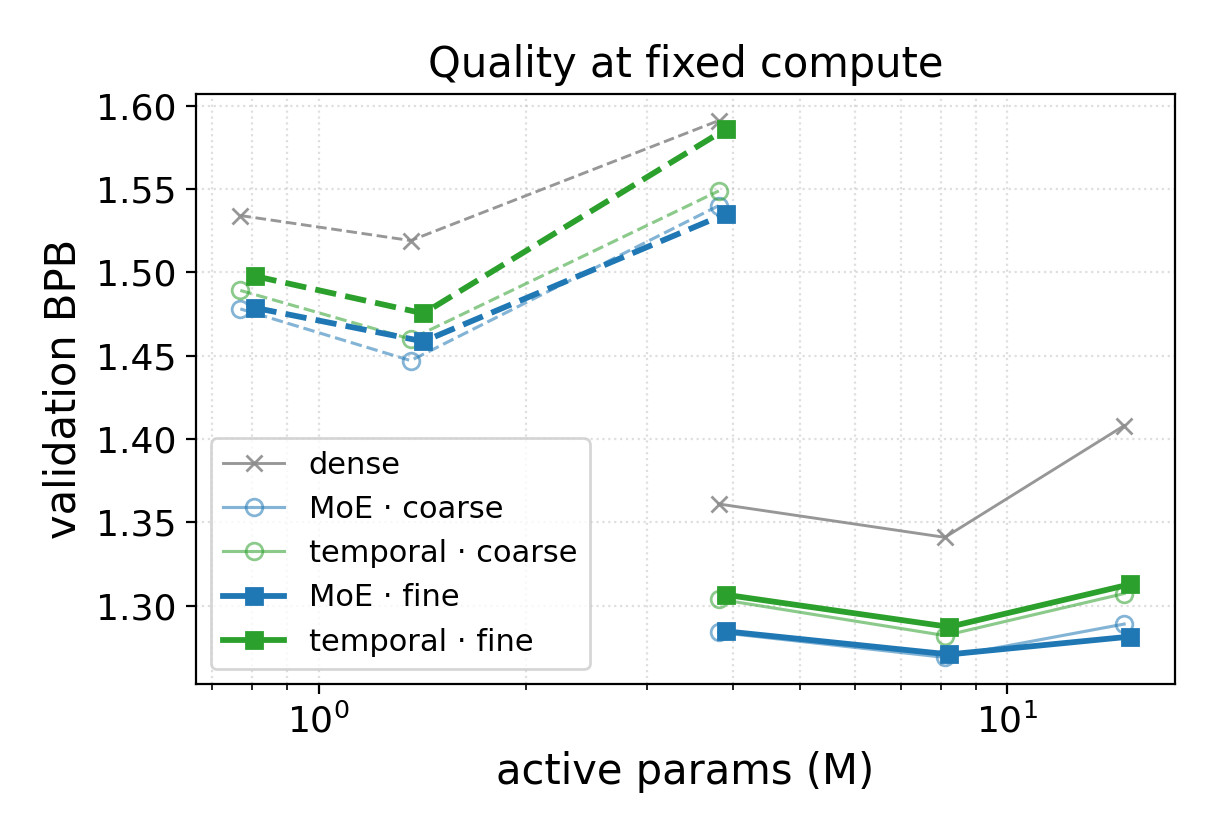
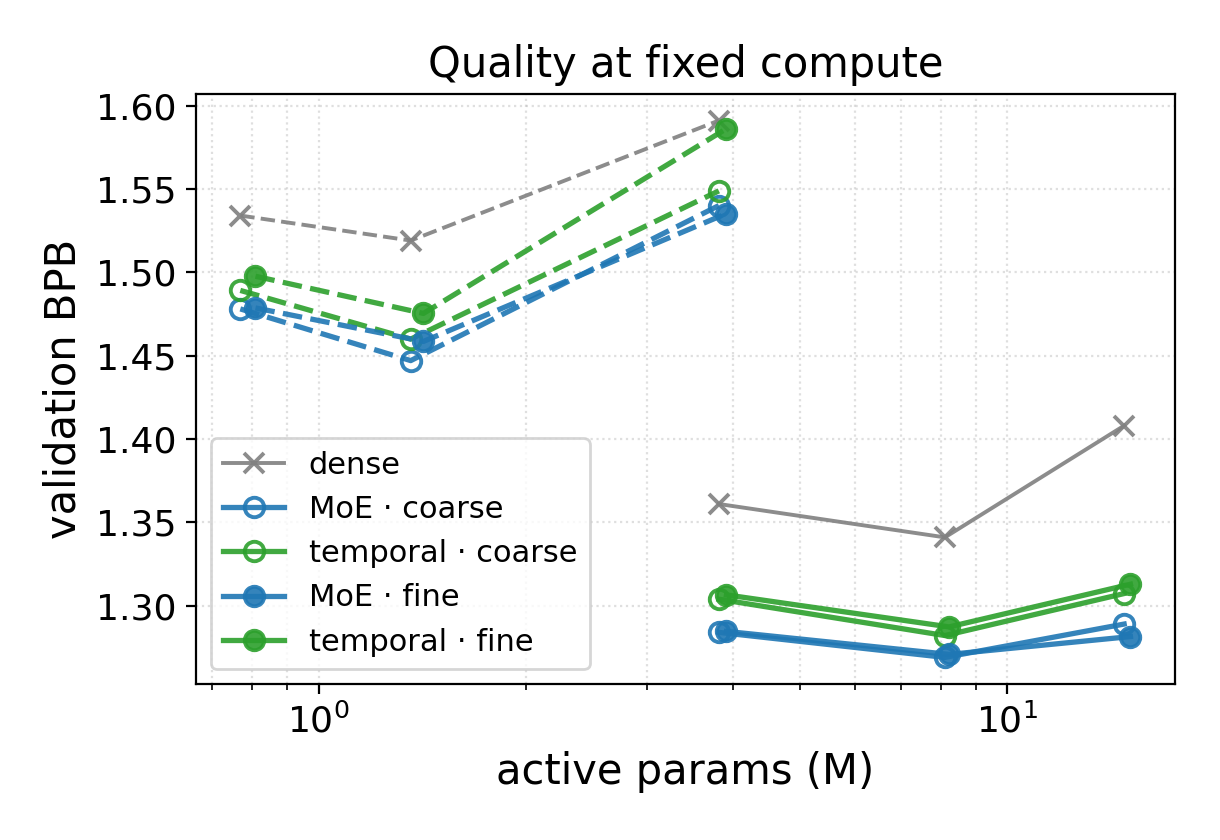
Figure 1 left: balance coarse/fine encoding — equal weight+opacity, distinguish by marker fill only
Was: fine = dark/bold/filled/opaque vs coarse = faded/thin/open, so fine
overpowered. Now both grains share line weight (1.9) and alpha (0.9), same
circle marker/size; open = coarse, filled = fine. Color still = method,
dashed/solid still = budget.

diff --git a/scripts/phase0/plot_g3_curves.py b/scripts/phase0/plot_g3_curves.py
@@ -35,24 +35,27 @@ TMP_G1   = {"1e16": {"sm1": 1.4891, "s0": 1.4599, "s1": 1.5488},
 TMP_G3   = {"1e16": {"sm1": 1.4976, "s0": 1.4753, "s1": 1.5861},
             "1e17": {"s1": 1.3065, "s2": 1.2873, "s3": 1.3129}}
 
-# name, data, N-table, color, marker, facecolor, lw, alpha, label, short-label (paper)
+# Balanced encoding: color = method, dashed/solid = budget, marker FILL = granularity
+# (open = coarse, filled = fine). Equal line weight + opacity so neither grain overpowers the other.
+# name, data, N-table, color, marker, facecolor, label, short-label (paper)
 SERIES = [
-    ("dense_g1", DENSE_G1, N_G1, "0.55", "x", "0.55", 1.3, 0.9,  "dense baseline",                    "dense"),
-    ("moe_g1",   MOE_G1,   N_G1, "C0",   "o", "none", 1.4, 0.55, "full MoE, coarse (6 of 64)",        "MoE · coarse"),
-    ("tmp_g1",   TMP_G1,   N_G1, "C2",   "o", "none", 1.4, 0.55, "temporal, coarse (6 of 64)",        "temporal · coarse"),
-    ("moe_g3",   MOE_G3,   N_G3, "C0",   "s", "C0",   2.6, 1.0,  "full MoE, fine-grained (18 of 192)","MoE · fine"),
-    ("tmp_g3",   TMP_G3,   N_G3, "C2",   "s", "C2",   2.6, 1.0,  "temporal, fine-grained (18 of 192)","temporal · fine"),
+    ("dense_g1", DENSE_G1, N_G1, "0.5", "x", "0.5",  "dense baseline",                    "dense"),
+    ("moe_g1",   MOE_G1,   N_G1, "C0",  "o", "none", "full MoE, coarse (6 of 64)",        "MoE · coarse"),
+    ("tmp_g1",   TMP_G1,   N_G1, "C2",  "o", "none", "temporal, coarse (6 of 64)",        "temporal · coarse"),
+    ("moe_g3",   MOE_G3,   N_G3, "C0",  "o", "C0",   "full MoE, fine-grained (18 of 192)","MoE · fine"),
+    ("tmp_g3",   TMP_G3,   N_G3, "C2",  "o", "C2",   "temporal, fine-grained (18 of 192)","temporal · fine"),
 ]
 LSTYLE = {"1e16": "--", "1e17": "-"}
 
 fig, ax = plt.subplots(figsize=(6.1, 4.2) if PAPER else (10.5, 6.6))
-for key, data, Ntab, color, mk, fc, lw, alpha, label, short in SERIES:
+for key, data, Ntab, color, mk, fc, label, short in SERIES:
+    lw = 1.4 if key == "dense_g1" else 1.9
     for b in ["1e16", "1e17"]:
         d = data[b]
         xs = np.array([Ntab[k] for k in d]); ys = np.array([d[k] for k in d])
         o = np.argsort(xs)
-        ax.plot(xs[o], ys[o], LSTYLE[b], color=color, marker=mk, mfc=fc,
-                ms=(6 if PAPER else 6.5), lw=(lw*0.8 if PAPER else lw), alpha=alpha,
+        ax.plot(xs[o], ys[o], LSTYLE[b], color=color, marker=mk, mfc=fc, mec=color,
+                ms=7, mew=1.4, lw=lw, alpha=0.9,
                 label=((short if PAPER else label) if b == "1e17" else None))
 ax.set_xscale("log")
 ax.grid(True, which="both", ls=":", alpha=0.4)
